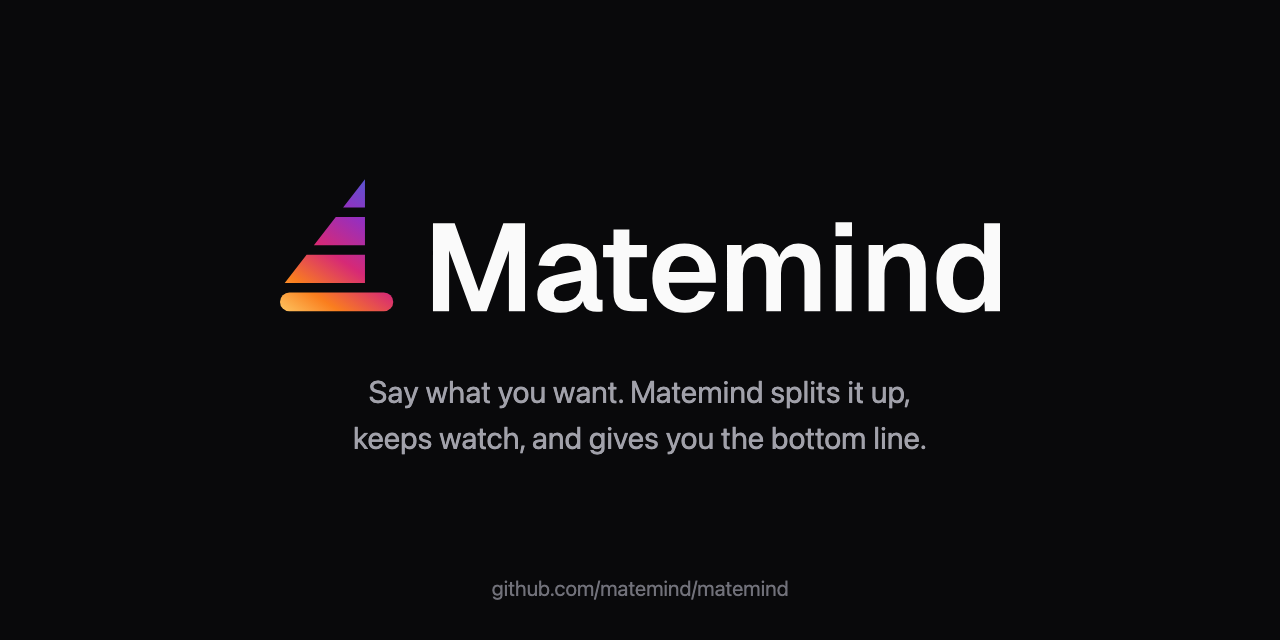
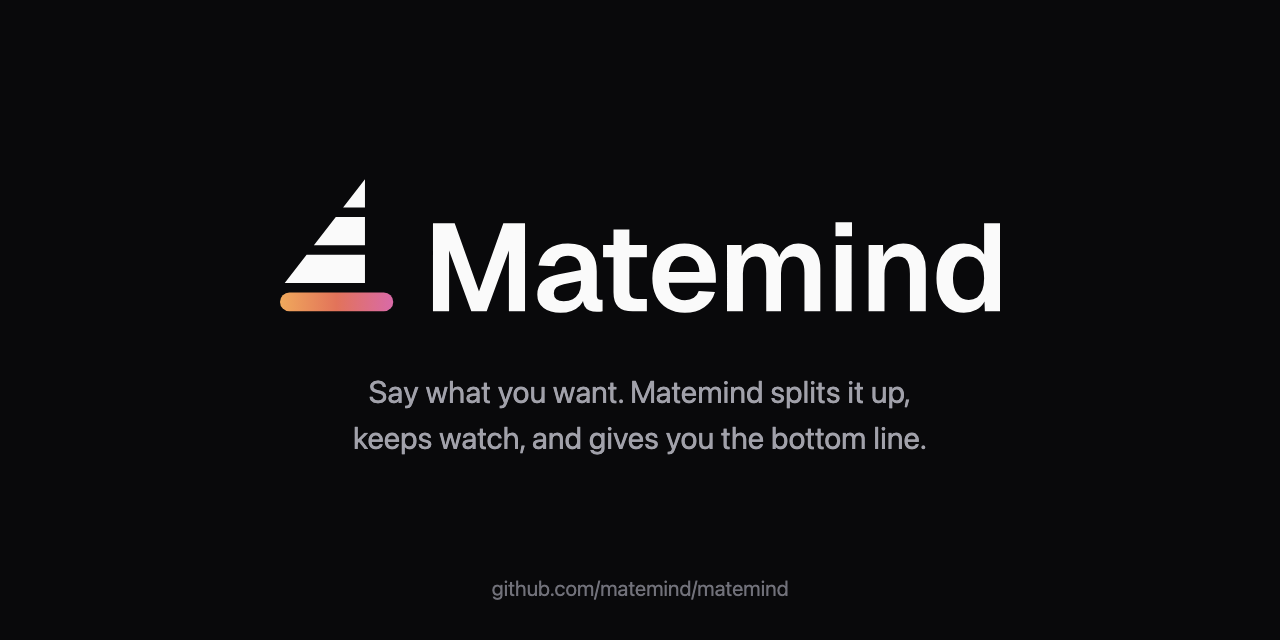
feat(brand): sunset bottom-line bar on an ink sail (option 3a)
After the competitive survey: the story-ring gradient matched Instagram's
published colours and the orb tile is the common AI-brand look. Now only the
bar has colour (amber -> coral -> rose from the avatar orbs, tokens
--brand-bar-0..2); the sail follows the text colour; the app icon is a dark
tile with a white sail. BRAND.md section 6 and the asset generator updated;
the compared variants are in concepts/colour-options-v3.png.

Changed region(s): [[0.2188, 0.2812, 0.3125, 0.5]]

diff --git a/web/src/components/brand/MatemindMark.tsx b/web/src/components/brand/MatemindMark.tsx
@@ -4,24 +4,24 @@ const SAIL = 'M44 4V16H34.73ZM44 20V32H22.36L31.64 20ZM44 36V48H10L19.27 36Z'
 
 /**
  * The Matemind mark (docs/brand/BRAND.md, "split sail"): a sail cut into three bands — the work
- * split up — on one bar, the bottom line. Filled with the live story-ring gradient; `mono` uses the text colour.
+ * split up — on one bar, the bottom line. The sail takes the text colour; only the bar has colour,
+ * a sunset gradient. `mono` draws the bar in the text colour too.
  */
 export function MatemindMark(props: { className?: string; mono?: boolean }) {
     const id = useId()
-    const fill = props.mono ? 'currentColor' : `url(#${id})`
     return (
         <svg viewBox="0 0 64 64" className={props.className} aria-hidden="true">
             {props.mono ? null : (
                 <defs>
-                    <linearGradient id={id} x1="6.4" y1="64" x2="48" y2="3.2" gradientUnits="userSpaceOnUse">
-                        {[0, 1, 2, 3, 4].map((stop) => (
-                            <stop key={stop} offset={stop / 4} style={{ stopColor: `var(--brand-sail-${stop})` }} />
+                    <linearGradient id={id} x1="8" y1="0" x2="56" y2="0" gradientUnits="userSpaceOnUse">
+                        {[0, 1, 2].map((stop) => (
+                            <stop key={stop} offset={stop / 2} style={{ stopColor: `var(--brand-bar-${stop})` }} />
                         ))}
                     </linearGradient>
                 </defs>
             )}
-            <path fill={fill} d={SAIL} />
-            <rect x="8" y="52" width="48" height="8" rx="4" fill={fill} />
+            <path fill="currentColor" d={SAIL} />
+            <rect x="8" y="52" width="48" height="8" rx="4" fill={props.mono ? 'currentColor' : `url(#${id})`} />
         </svg>
     )
 }

diff --git a/web/src/index.css b/web/src/index.css
@@ -96,8 +96,8 @@
     --social-fg-muted: #71717a;
     --social-fg-subtle: #a1a1aa;
     --social-surface: #ffffff;
-    /* Logo only: the split-sail gradient, the same colours as the live story ring. */
-    --brand-sail-0: #feda75; --brand-sail-1: #fa7e1e; --brand-sail-2: #d62976; --brand-sail-3: #962fbf; --brand-sail-4: #4f5bd5;
+    /* Logo only: the sunset gradient on the mark's bottom-line bar (avatar orbs' warm families). */
+    --brand-bar-0: #f0a95c; --brand-bar-1: #e2735a; --brand-bar-2: #d96aa8;
     --social-muted: #f4f4f5;
     --social-hover: #f8f8f9;
     --social-border: #e4e4e7;

diff --git a/docs/brand/BRAND.md b/docs/brand/BRAND.md
@@ -92,21 +92,20 @@ In the lockup, the mark is 1.5 x the cap height. The bottom of the bar sits on t
 
 ### Colours
 
-The colours come from inside the app, so the logo and the session list look like one product (decided 2026-10-21).
+Decided 2026-10-21 ("3a, sunset bar"), after the competitive survey: the earlier story-ring gradient matched Instagram's published colours, and soft purple-blue orbs are the most common AI-brand look. Only the bottom-line bar has colour, so the conclusion is what stands out.
 
-| Role | Value | Source in the app |
-|---|---|---|
-| Mark: sail and bar | Linear gradient, bottom-left to top-right: `#feda75` → `#fa7e1e` → `#d62976` → `#962fbf` → `#4f5bd5` | The "live" story ring (`--ring-live`); tokens `--brand-sail-0..4` |
-| App icon tile | A session orb: base `#b86ad8` → `#5b8def`, with soft glows `#e870a6` (top-left), `#7f7be0` (right), `#f0a95c` (bottom) | Avatar orb families 0, 2 and 3 (`--orb-*`) |
-| Mark on the app icon | White `#ffffff` | — |
-| Wordmark | `#09090b` on light, `#fafafa` on dark | `--social-fg` |
+| Role | Light background | Dark background | Source in the app |
+|---|---|---|---|
+| Sail, wordmark | `#09090b` | `#fafafa` | `--social-fg` |
+| Bottom-line bar | Sunset gradient, left to right: `#f0a95c` → `#e2735a` → `#d96aa8` | same | Warm avatar-orb families (`--orb-2`, `--orb-11`); tokens `--brand-bar-0..2` |
+| App icon | Tile `#18181b`, white sail, sunset bar | same | — |
 
-The gradient works on light and dark backgrounds, so there is one mark file for both. The gradient belongs to the logo only. In the UI, the same colours still mean "live" on a session ring, and brand red (`#ff3040`) still means unread.
+The sunset gradient belongs to the logo only. In the UI, brand red (`#ff3040`) still means unread, and the story ring still means live.
 
 ### Clear space and minimum size
 
 1. Clear space: keep empty space of at least 25% of the mark height on every side. This applies to the mark and to the lockup.
-2. Minimum size: 16 px. Below 32 px, prefer the app icon (white mark on the orb tile); the white bands stay readable there.
+2. Minimum size: 16 px. The bar stays visible at 16 px because it is the only colour.
 3. Lockup minimum: 20 px mark height (the wordmark is then about 85 px wide). Below that, use the mark alone.
 4. Single colour (Safari pinned tab, notification badge, print): use `matemind-mark-mono.svg`. The bar takes the same colour as the sail.
 
@@ -114,21 +113,21 @@ The gradient works on light and dark backgrounds, so there is one mark file for 
 
 | Do | Don't |
 |---|---|
-| Use the gradient mark, or the mono mark when colour is not available | Fill the bands with different colours, or use colours outside the gradient |
+| Keep the colour on the bar only; use the mono mark when colour is not available | Colour the sail, or use other colours in the bar |
 | Keep the bar under the sail and full width | Remove the bar, or show the sail without its gaps |
-| Use the orb tile with the white mark for app icons | Rotate, outline, add shadows, or add text inside the mark |
+| Use the dark tile with the white sail for app icons | Put the mark on an orange or warm tile (it reads as a traffic cone, like VLC), rotate it, or add text inside |
 
-The first version (black sail, blue bar, dark tile) is in git history; the three colour options compared on 2026-10-21 are in `concepts/colour-options.png`.
+Earlier versions are in git history. Options compared on 2026-10-21: `concepts/colour-options.png` (first round), `colour-options-v2.png` (after the survey), `colour-options-v3.png` (variants of the chosen direction).
 
 ### Assets (`docs/brand/assets/`)
 
 | File | Use |
 |---|---|
-| `matemind-mark.svg` | Gradient mark, for light and dark backgrounds |
+| `matemind-mark.svg`, `matemind-mark-dark.svg` | Mark for light / dark backgrounds |
 | `matemind-mark-mono.svg` | Single colour (mask icons) |
 | `matemind-wordmark.svg`, `matemind-wordmark-dark.svg` | Wordmark, outlined |
 | `matemind-lockup.svg`, `matemind-lockup-dark.svg` | Mark + wordmark |
-| `matemind-app-icon.svg` | App icon master: orb tile, white mark |
+| `matemind-app-icon.svg` | App icon master: dark tile, white sail, sunset bar |
 | `matemind-badge-96.png` | White mark on transparent, for Android notification badges |
 | `matemind-social.png` | 1280 x 640 social preview |
 | `*.png` | Renders of the files above |
